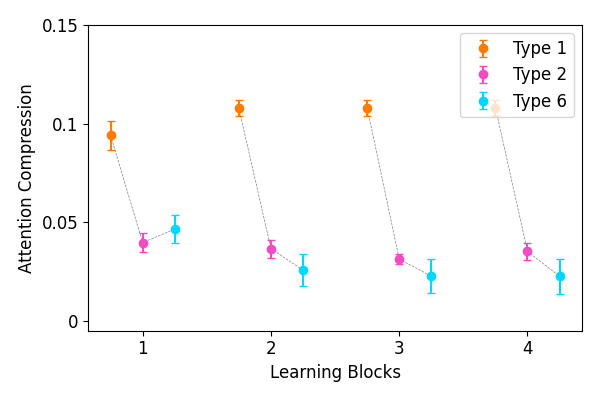
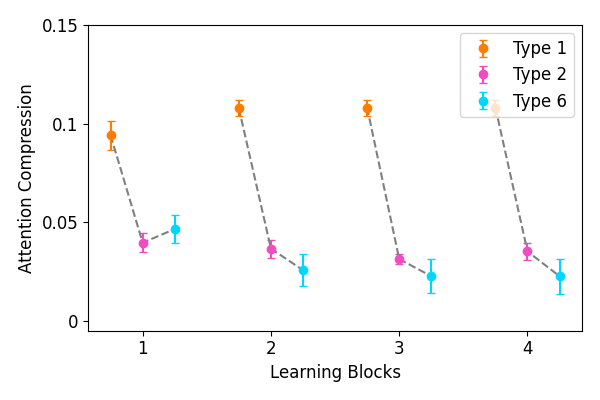
use consistent lw

diff --git a/compression.py b/compression.py
@@ -345,7 +345,7 @@ def compression_plotter_V2(compression_results):
     for run_i in range(int(len(positions)/len(problem_types))):
         per_run_positions = positions[run_i * len(problem_types) : (run_i+1) * len(problem_types)]
         per_run_means = means[run_i * len(problem_types) : (run_i+1) * len(problem_types)]
-        ax.plot(per_run_positions, per_run_means, color='grey', linewidth=0.5, ls='dashed')
+        ax.plot(per_run_positions, per_run_means, color='grey', ls='dashed')
 
     ax.set_xticks([2, 6, 10, 14])
     ax.set_xticklabels([1, 2, 3, 4])
